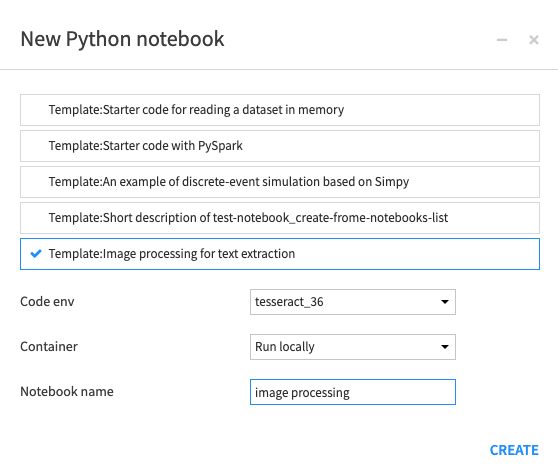
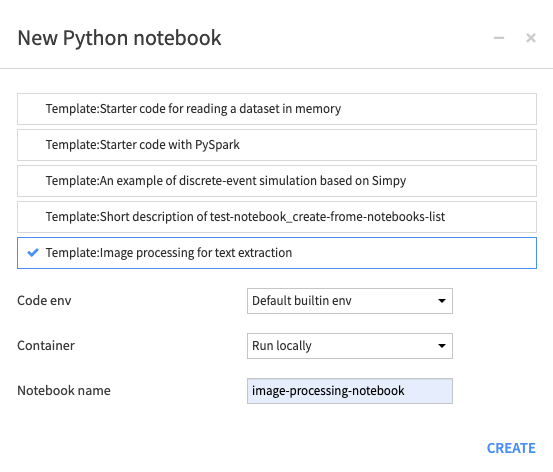
image processing recipe

diff --git a/resource/image-processing-template.html b/resource/image-processing-template.html
@@ -1,0 +1,35 @@
+<div ng-controller="ImageProcessingController" style="margin: 10px 0px;">
+    <label for="functions-definition">Image processing functions</label>
+    <textarea ui-codemirror="editorOptions" id="functions-definition" ng-model="config.functions_definition" ng-init="config.functions_definition= 
+    '# Define here the different image processing python functions
+# Don\'t forget to import needed packages (that are in the plugin code env)
+# These functions have an image as input and output 
+
+# for example
+import cv2
+
+def blurring(image):
+    return cv2.medianBlur(image,5)
+
+def thresholding(image):
+    return cv2.threshold(image, 0, 255, cv2.THRESH_BINARY + cv2.THRESH_OTSU)[1]
+    '">
+    </textarea>
+    
+    <label for="pipeline-definition">Processing pipeline function</label>
+    <textarea ui-codemirror="editorOptions" id="pipeline-definition" ng-model="config.pipeline_definition" ng-init="config.pipeline_definition=
+    '# Fill-in complete_processing with functions defined above
+
+def complete_processing(img):
+    # This function will be executed on all images in the input folder
+
+    # add the functions you defined above here
+
+    # for example
+    img = blurring(img)
+    img = thresholding(img)
+
+    return img
+    '">
+</textarea>
+</div>

diff --git a/js/image-processing-template.js b/js/image-processing-template.js
@@ -1,0 +1,5 @@
+var app = angular.module('imageProcessingTemplate.module', []);
+
+app.controller('ImageProcessingController', function($scope, CodeBasedEditorUtils) {
+    $scope.editorOptions = CodeBasedEditorUtils.editorOptions('text/x-python', $scope)
+});

diff --git a/custom-recipes/image-processing-custom/recipe.py b/custom-recipes/image-processing-custom/recipe.py
@@ -1,0 +1,48 @@
+from dataiku.customrecipe import get_recipe_config
+from PIL import Image
+from io import BytesIO
+import numpy as np
+import logging
+from utils import get_input_output, image_processing_parameters
+
+
+logger = logging.getLogger(__name__)
+
+input_folder, output_folder = get_input_output('folder', 'folder')
+
+input_filenames = input_folder.list_paths_in_partition()
+total_images = len(input_filenames)
+
+params = image_processing_parameters(get_recipe_config())
+
+logger.info("params: {}".format(params))
+
+try:
+    if params['functions_definition']:
+        logger.info("about to execute: {}".format(params['functions_definition']))
+        exec(params['functions_definition'])
+
+    if params['pipeline_definition']:
+        logger.info("about to execute: {}".format(params['pipeline_definition']))
+        exec(params['pipeline_definition'])
+
+    complete_processing  # check that this function exists
+except Exception as e:
+    raise Exception("OCR - Problem executing python code defined by user: {}".format(e))
+
+for i, sample_file in enumerate(input_filenames):
+    if sample_file.split('.')[-1] != "jpg":
+        continue
+
+    with input_folder.get_download_stream(sample_file) as stream:
+        raw_img_bytes = stream.read()
+    raw_image = np.array(Image.open(BytesIO(raw_img_bytes)))
+
+    processed_image = complete_processing(raw_image)
+    logger.info("OCR - Processed {}/{} images".format(i+1, total_images))
+
+    buf = BytesIO()
+    Image.fromarray(processed_image).save(buf, format='JPEG')
+    processed_img_bytes = buf.getvalue()
+
+    output_folder.upload_data(sample_file, processed_img_bytes)

diff --git a/python-lib/utils.py b/python-lib/utils.py
@@ -20,6 +20,17 @@ def get_input_output(input_type='dataset', output_type='dataset'):
     return input_obj, output_obj
 
 
+def image_processing_parameters(recipe_config):
+    def _p(param_name, default=None):
+        return recipe_config.get(param_name, default)
+
+    params = {}
+    params['functions_definition'] = _p('functions_definition', default=None)
+    params['pipeline_definition'] = _p('pipeline_definition', default=None)
+
+    return params
+
+
 def text_extraction_parameters(recipe_config):
     def _p(param_name, default=None):
         return recipe_config.get(param_name, default)

diff --git a/custom-recipes/ocr-text-extraction-dataset/recipe.py b/custom-recipes/ocr-text-extraction-dataset/recipe.py
@@ -23,7 +23,7 @@ for i, sample_file in enumerate(input_filenames):
         img_bytes = stream.read()
 
     img_text = text_extraction(img_bytes, params)
-    logger.info("{} - Extracted text from {}/{} images".format("OCR", i+1, total_images))
+    logger.info("OCR - Extracted text from {}/{} images".format(i+1, total_images))
 
     df = df.append({'file': sample_file.split('.')[0], 'text': img_text}, ignore_index=True)
 

diff --git a/README.md b/README.md
@@ -1,24 +1,15 @@
 # dss-plugin-tesseract-ocr
 Plugin for optical character recognition (OCR) in python using the tesseract engine
 
-The plugin has three components (two recipes and a notebook template):
-- image-conversion recipe: convert all types of images into jpg images and split multi-page PDF documents into multiple jpg images. It also convert images to grayscale.
-- ocr-text-extraction-dataset recipe:: extract text from images using tesseract and output a dataset with a filename column and a text column. This recipe has parameters to recombine formely split multi-page PDF into a single text, to specify the language used in tesseract, and to remove special charaters from the extracted text. It takes as input a folder of JPG images (the output of the image-conversion recipe or of the notebook).
-- image processing notebook: notebook to explore different types of image processing to improve (or not) text extraction from tesseract. Then, the notebook acts as a recipe to process images and output a folder of processed images that can be used by the ocr-text-extraction-dataset recipe.
+The plugin has four components (three recipes and a notebook template):
+- Image Conversion recipe: convert all types of images into jpg images and split multi-page PDF documents into multiple jpg images. It also convert images to grayscale.
+- Text Extraction recipe:: extract text from images using tesseract and output a dataset with a filename column and a text column. This recipe has parameters to recombine multi-page PDF (that were split into multiple images in the Image Conversion recipe) into a single text, to specify the language used in tesseract, and to remove special charaters from the extracted text. It takes as input a folder of JPG images (ideally the output of the Image Conversion recipe or of the Image Processing recipe).
+- Image Processing notebook: notebook to explore different types of image processing to improve (or not) text extraction from tesseract. Then, the functions that were tested in the notebook can be used in the Image Processing recipe.
+- Image Processing recipe: recipe to process images using functions defined by the user in the python editor area of the recipe form.
 
 ## Instructions to use the notebook template
  
-In order to use notebook template as code recipe after exploring different image processing, you (or the admin) need to create a code env with the same requirements as the plugin code env (because notebooks converted into recipe can't use plugin code envs). These requirements can be found in the `requirements.txt` file of the plugin:
-```
-pdf2image==1.6.0
-pytesseract==0.2.7
-Pillow==7.0.0
-matplotlib==3.2.0
-opencv-python>=3.1.0
-deskew>=0.10.0
-```
-
-Go to notebook (G+N) and create a new python notebook. Select the template `Image processing for text extraction` and select as code env the one you created manually.
+Go to notebook (G+N) and create a new python notebook. Select the template `Image processing for text extraction` and then check that the plugin code env is selected (you can set it in the tab Kernel > Change kernel).
 
 ![](resource/img-doc/doc-notebook-form.png)
 
@@ -32,13 +23,9 @@ You can also look at the extracted text before and after image processing using 
 
 ![](resource/img-doc/doc-notebook-extracted-text-viz.png)
 
-When you are done exploring different type of image processing, you can convert this notebook into a code recipe (+ CREATE RECIPE button) and choose the input folder and the output folder (not datasets).
+When you are done exploring different type of image processing functions, you can copy the functions you want and paste them in the Image Processing recipe form.
 
-Once in the code recipe, you need to copy the output folder id into the `output_folder_id` variable above and delete the last two lines that were automatically added to the code. More detailed instructions are written in the notebook.
-
-You also have to change the code env of the code recipe (in the advanced tab) for the newly created code env that has the same packages as the plugin code env.
-
-![](resource/img-doc/doc-notebook-code-env-selection.png)
+![](resource/img-doc/doc-image-processing-recipe.png)
 
 
 ## Requirements
